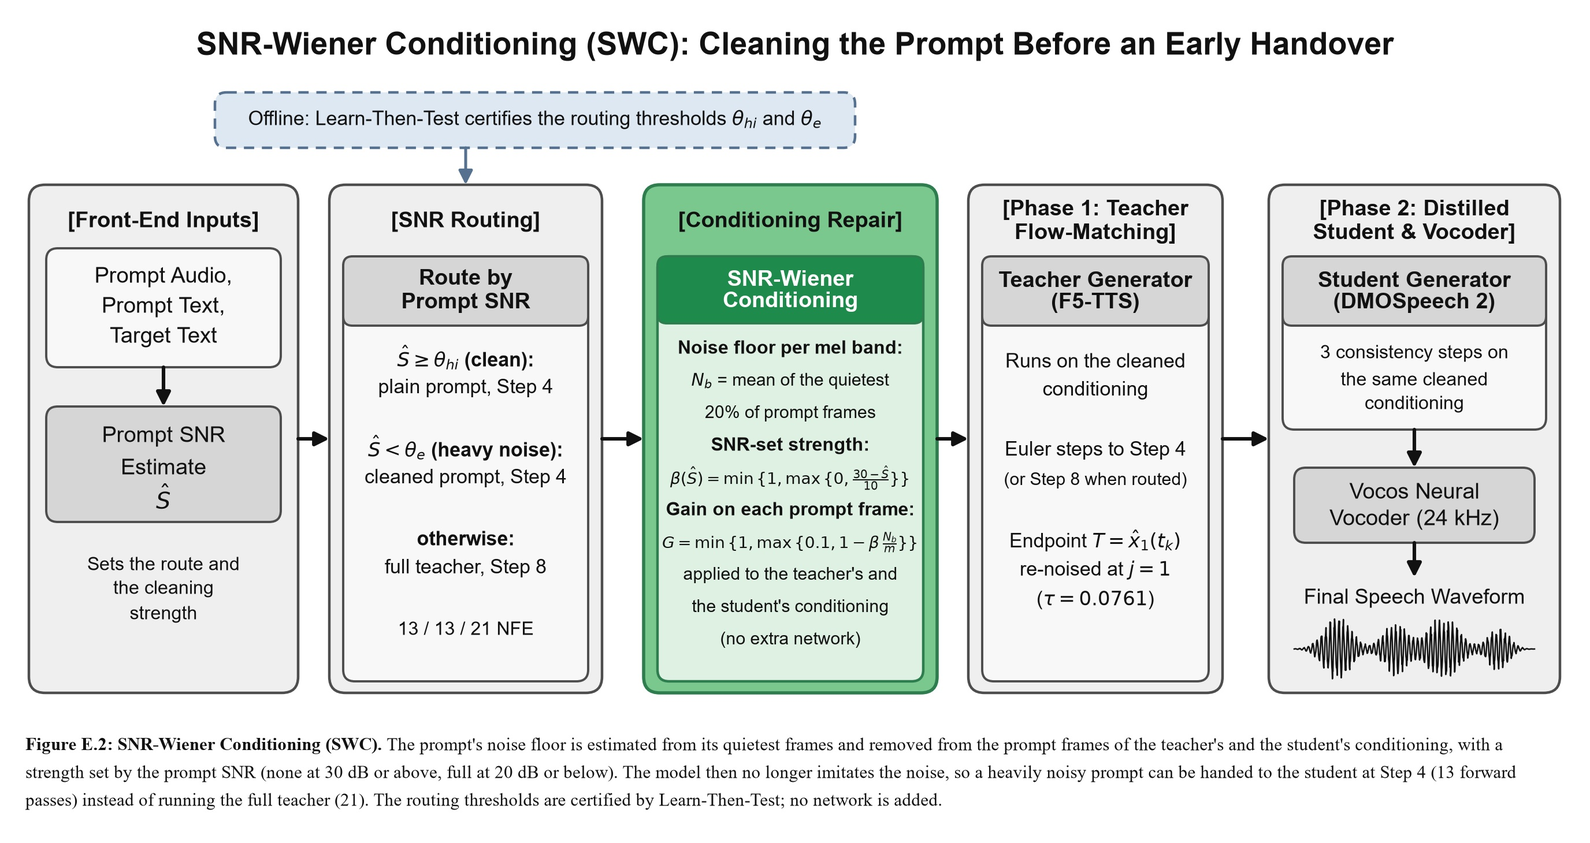
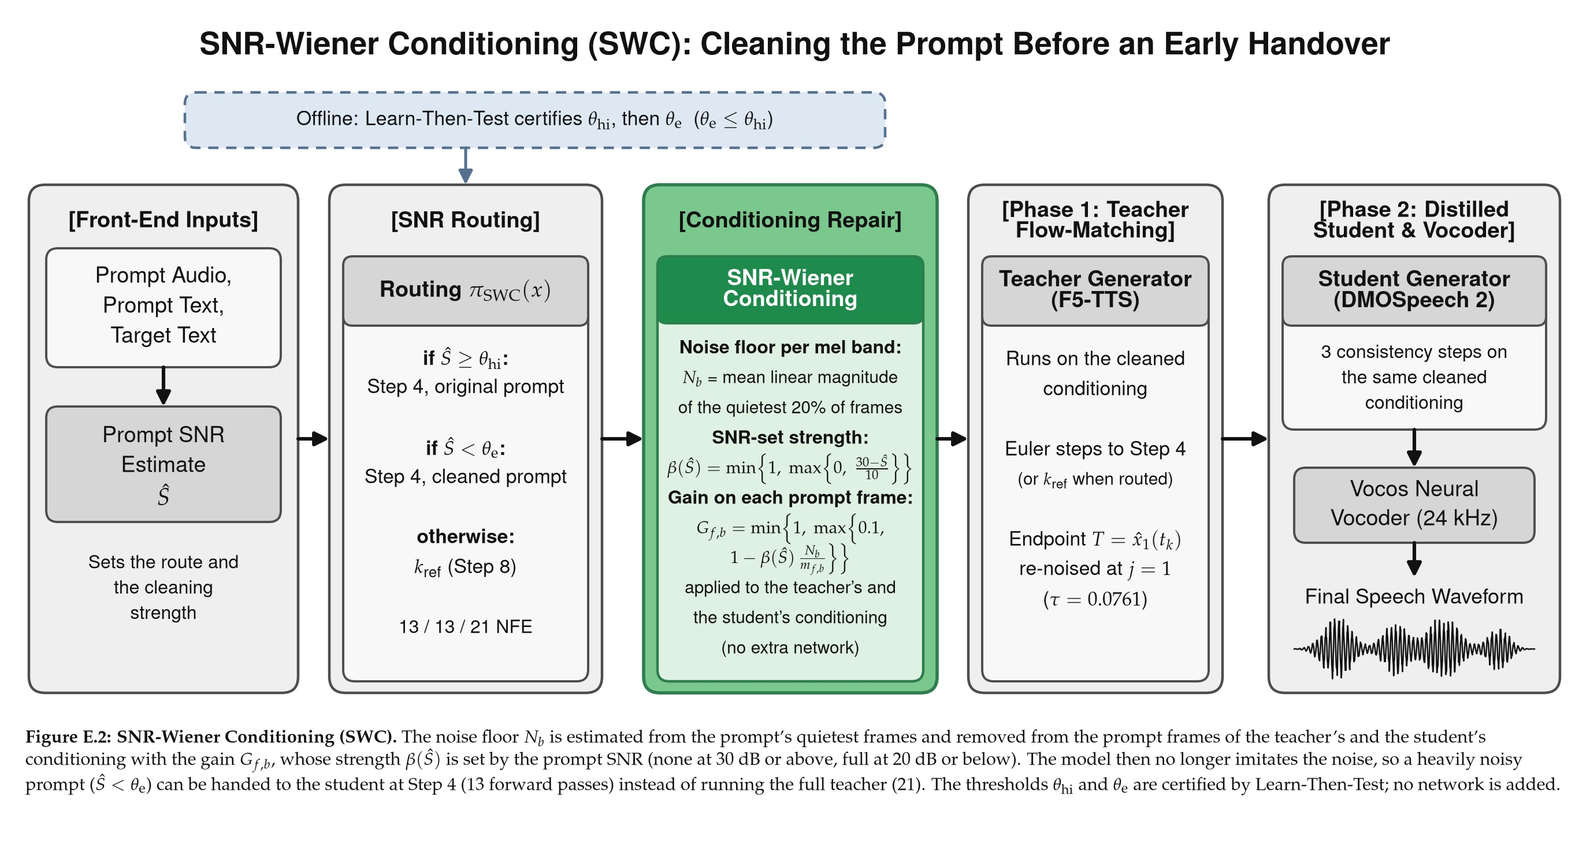
Appendix E and candidate figures: one notation
Appendix E: state the 20 dB gate used for TAS, add the SWC routing rule
that defines theta_e <= theta_hi, and give their certified values
(theta_hi 26 dB in every fold; theta_e 18-21 dB for heavy noise only).
Table E.1 labels the two SWC rows by these thresholds. No result changed.

Figures: typeset the text and formulas with LaTeX (Palatino math, as in
the manuscript) using the exact Appendix E notation, and regenerate both.

diff --git a/paper/figures/scripts/generate_candidate_figures.py b/paper/figures/scripts/generate_candidate_figures.py
@@ -1,12 +1,14 @@
 """
 Block diagrams for the two candidate solutions of Appendix E, drawn in the style of
-figures/handover_scheduling_architecture.jpg (five panels, highlighted scheduler, dashed
+figures/handover_scheduling_architecture.jpg (five panels, highlighted method panel, dashed
 offline-calibration box, caption under the diagram).
 
   tas_handover_gate.jpg       SNR + Trajectory Anomaly Score (TAS) handover gate
   swc_conditioning.jpg        SNR-Wiener Conditioning (SWC) with SNR routing
 
-No data needed; the formulas follow Appendix E. Outputs go to paper/figures/.
+All text is typeset by LaTeX (needs latex and dvipng on PATH): formulas use the manuscript's
+Palatino math (mathpazo) and the exact notation of Appendix E; labels use Helvetica, close to
+the reference figure's Arial. No data needed. Outputs go to paper/figures/.
 """
 
 import os
@@ -26,9 +28,14 @@ PANEL, PANEL_EDGE = "#efefef", "#4d4d4d"
 INNER, HEADER = "#f8f8f8", "#d6d6d6"
 GREEN_OUT, GREEN_EDGE, GREEN_IN, GREEN_HEAD = "#7bc88f", "#2e7d4f", "#dff1e2", "#1e8a4c"
 CALIB_FILL, CALIB_EDGE = "#dde8f3", "#56708f"
-SANS, SERIF = "Arial", "Times New Roman"
 
-plt.rcParams["mathtext.fontset"] = "dejavusans"
+plt.rcParams.update({
+    "text.usetex": True,
+    "font.family": "sans-serif",
+    "font.sans-serif": ["Helvetica"],
+    "font.serif": ["Palatino"],
+    "text.latex.preamble": r"\usepackage[T1]{fontenc}\usepackage{amsmath}\usepackage{bm}",
+})
 
 
 def pt(px):
@@ -51,9 +58,10 @@ def box(ax, x0, y0, x1, y1, fc, ec, lw=1.6, r=12, ls="-"):
                                 fc=fc, ec=ec, lw=lw, ls=ls, zorder=1))
 
 
-def text(ax, x, y, s, size=17, bold=False, color=INK, family=SANS, ha="center", va="center", style="normal"):
-    ax.text(x, y, s, fontsize=pt(size), fontweight="bold" if bold else "normal", color=color, family=family,
-            ha=ha, va=va, linespacing=1.15, style=style, zorder=3)
+def text(ax, x, y, s, size=17, bold=False, color=INK, ha="center", va="center"):
+    if bold:
+        s = "\n".join(r"\textbf{" + part + "}" for part in s.split("\n"))
+    ax.text(x, y, s, fontsize=pt(size), color=color, ha=ha, va=va, linespacing=1.15, zorder=3)
 
 
 def lines(ax, x, y0, items, step=24):
@@ -88,28 +96,10 @@ def waveform(ax, x0, x1, yc, amp):
     ax.plot(x0 + (x1 - x0) * t, yc - amp * sig / np.abs(sig).max(), color=INK, lw=0.9, zorder=3)
 
 
-def caption(ax, fig, x0, y0, width, bold, rest, size=15.5, step=24):
-    """Serif caption: bold lead-in, then regular text wrapped to the width (measured with the renderer)."""
-    r = fig.canvas.get_renderer()
-    scale = fig.dpi / 100.0
-
-    def wpx(s, b):
-        t = ax.text(0, 0, s, fontsize=pt(size), family=SERIF, fontweight="bold" if b else "normal")
-        w = t.get_window_extent(renderer=r).width / scale
-        t.remove()
-        return w
-
-    lead = wpx(bold + " ", True)
-    text(ax, x0, y0, bold, size=size, bold=True, family=SERIF, ha="left")
-    words, line, avail, y, first = rest.split(), "", width - lead, y0, True
-    for w in words:
-        cand = (line + " " + w).strip()
-        if wpx(cand, False) <= avail:
-            line = cand
-            continue
-        text(ax, x0 + (lead if first else 0), y, line, size=size, family=SERIF, ha="left")
-        line, avail, y, first = w, width, y + step, False
-    text(ax, x0 + (lead if first else 0), y, line, size=size, family=SERIF, ha="left")
+def caption(ax, x0, y0, width, lead, rest, size=15.5):
+    """Serif (Palatino) caption with a bold lead-in, wrapped by LaTeX itself."""
+    s = r"\parbox[t]{%.2fin}{\rmfamily\raggedright\textbf{%s} %s}" % (width / 100.0, lead, rest)
+    ax.text(x0, y0, s, fontsize=pt(size), color=INK, ha="left", va="top", zorder=3)
 
 
 def front_end(ax, snr_note):
@@ -118,13 +108,13 @@ def front_end(ax, snr_note):
     lines(ax, 141.5, 240, [("Prompt Audio,", 19, False), ("Prompt Text,", 19, False), ("Target Text", 19, False)], step=26)
     arrow(ax, 141.5, 318, 141.5, 352)
     box(ax, 40, 352, 243, 452, HEADER, PANEL_EDGE, lw=1.4, r=10)
-    lines(ax, 141.5, 378, [("Prompt SNR", 19, False), ("Estimate", 19, False), ("$\\hat{S}$", 20, False)], step=26)
+    lines(ax, 141.5, 378, [("Prompt SNR", 19, False), ("Estimate", 19, False), (r"$\hat S$", 20, False)], step=26)
     lines(ax, 141.5, 488, snr_note, step=22)
 
 
 def student(ax, x0, x1, note):
     xm = (x0 + x1) / 2
-    panel(ax, x0, x1, "[Phase 2: Distilled\nStudent & Vocoder]")
+    panel(ax, x0, x1, "[Phase 2: Distilled\nStudent \\& Vocoder]")
     box(ax, x0 + 12, 222, x1 - 12, 372, INNER, PANEL_EDGE, lw=1.4, r=10)
     header_box(ax, x0 + 12, x1 - 12, 222, 282, "Student Generator\n(DMOSpeech 2)")
     lines(ax, xm, 306, note, step=22)
@@ -145,90 +135,96 @@ def calibration(ax, x0, x1, label, target_x):
 def figure_tas():
     fig, ax = new_canvas()
     text(ax, W / 2, 40, "SNR + Trajectory Anomaly Score (TAS) Handover Gate", size=27, bold=True)
-    calibration(ax, 300, 1076, "Offline: clean-trajectory model $(\\mu,\\Sigma)$ + Learn-Then-Test $\\rightarrow$ certified threshold $\\hat{\\kappa}$", 684)
+    calibration(ax, 300, 1076, r"Offline: clean-trajectory model $(\bm{\mu},\bm{\Sigma})$ + Learn-Then-Test $\rightarrow$ certified threshold $\hat\kappa$", 684)
 
     front_end(ax, [("Sent to the", 16, False), ("scheduler for the", 16, False), ("SNR gate", 16, False)])
 
     panel(ax, 285, 521, "[Phase 1: Teacher\nFlow-Matching]")
     box(ax, 297, 222, 509, 590, INNER, PANEL_EDGE, lw=1.4, r=10)
     header_box(ax, 297, 509, 222, 282, "Teacher Generator\n(F5-TTS)")
-    lines(ax, 403, 310, [("Iterative Euler steps", 17, False), ("from $t=0$", 17, False), ("", 0, False),
-                         ("Endpoint estimates", 17, False), ("$\\hat{x}_1(t_i)$", 18, False), ("", 0, False),
-                         ("Drift profile", 17, True), ("$\\mathbf{z}=(\\log d_1,\\ldots,\\log d_6)$", 16, False),
+    lines(ax, 403, 310, [("Iterative Euler steps", 17, False), (r"from $t=0$", 17, False), ("", 0, False),
+                         ("Endpoint estimates", 17, False), (r"$\hat x_1(t_i)$", 18, False), ("", 0, False),
+                         ("Drift profile", 17, True), (r"$\mathbf{z}(x)=(\log d_1,\dots,\log d_6)$", 16, False),
                          ("(no extra forward pass)", 15, False)], step=26)
 
     panel(ax, 557, 811, "[Adaptive Handover\nScheduler]", green=True)
     box(ax, 569, 222, 799, 590, GREEN_IN, GREEN_EDGE, lw=1.6, r=10)
     header_box(ax, 569, 799, 222, 280, "SNR + TAS Gate", green=True)
-    lines(ax, 684, 302, [("Prompt-SNR Gate:", 17, True), ("$\\hat{S}\\geq\\theta$", 18, False),
-                         ("Trajectory Anomaly Score:", 16, True), ("$A=(\\mathbf{z}-\\mu)^{\\top}\\Sigma^{-1}(\\mathbf{z}-\\mu)$", 16, False),
-                         ("if the trajectory is stiller", 15, False), ("than on clean prompts, else 0", 15, False),
-                         ("Online Decision Rule:", 17, True), ("If $\\hat{S}\\geq\\theta$ and $A\\leq\\hat{\\kappa}$:", 16, False),
-                         ("hand over at Step 4.", 16, False), ("Otherwise: Step 8.", 16, False)], step=27)
+    lines(ax, 684, 302, [("Prompt-SNR Gate:", 17, True), (r"$\hat S\ge\theta$", 18, False),
+                         ("Trajectory Anomaly Score:", 16, True),
+                         (r"$A(x)=(\mathbf{z}-\bm{\mu})^{\top}\bm{\Sigma}^{-1}(\mathbf{z}-\bm{\mu})$", 16, False),
+                         (r"if the mean component of", 15, False), (r"$\mathbf{z}-\bm{\mu}$ is negative, else $0$", 15, False),
+                         ("Online Decision Rule:", 17, True),
+                         (r"$\pi_{\mathrm{TAS}}(x)=4$ if $\hat S\ge\theta$", 16, False),
+                         (r"and $A(x)\le\hat\kappa$;", 16, False),
+                         (r"otherwise $k_{\text{ref}}$ (Step 8)", 16, False)], step=27)
 
     panel(ax, 838, 1058, "[Handover Interface]")
     box(ax, 850, 222, 1046, 590, INNER, PANEL_EDGE, lw=1.4, r=10)
     header_box(ax, 850, 1046, 222, 282, "Handover\nInterface")
-    lines(ax, 948, 312, [("Teacher endpoint", 17, False), ("$T=\\hat{x}_1(t_k)$", 18, False), ("$k\\in\\{4,8\\}$", 17, False), ("", 0, False),
-                         ("Re-noise at fixed", 17, False), ("student restart level", 17, False), ("$j=1$  ($\\tau=0.0761$)", 17, False), ("", 0, False),
+    lines(ax, 948, 312, [("Teacher endpoint", 17, False), (r"$T=\hat x_1(t_k)$", 18, False), (r"$k\in\{4,8\}$", 17, False), ("", 0, False),
+                         ("Re-noise at fixed", 17, False), ("student restart level", 17, False), (r"$j=1$ \ ($\tau=0.0761$)", 17, False), ("", 0, False),
                          ("Step 4: 13 NFE", 16, True), ("Step 8: 21 NFE", 16, True)], step=26)
 
-    student(ax, 1098, 1350, [("Executes exactly 3", 16, False), ("consistency steps", 16, False), ("to $t=1.00$", 16, False)])
+    student(ax, 1098, 1350, [("Executes exactly 3", 16, False), ("consistency steps", 16, False), (r"to $t=1.00$", 16, False)])
 
     for x0, x1 in ((258, 285), (521, 557), (811, 838), (1058, 1098)):
         arrow(ax, x0, 380, x1, 380)
 
-    caption(ax, fig, 22, 646, 1330, "Figure E.1: SNR + Trajectory Anomaly Score (TAS).",
-            "The teacher's drift profile, which the teacher pass already computes, is compared with the profiles of clean "
-            "prompts. A trajectory that settles too early (premature stabilization, the sign of a noisy prompt) is not handed "
-            "over, even if its SNR passes the gate. Inputs that pass both checks are handed to the student at Step 4 (13 forward "
-            "passes); all others continue to Step 8 (21). The clean-trajectory model needs no failure labels; the threshold "
-            "is certified by Learn-Then-Test.")
+    caption(ax, 22, 632, 1330, "Figure E.1: SNR + Trajectory Anomaly Score (TAS).",
+            r"The teacher's drift profile $\mathbf{z}(x)$, which the teacher pass already computes, is compared with the profiles of clean "
+            r"prompts. A trajectory that settles too early (premature stabilization, the sign of a noisy prompt) is not handed "
+            r"over, even if its SNR passes the gate. Inputs that pass both checks are handed to the student at Step 4 (13 forward "
+            r"passes); all others continue to the reference step $k_{\text{ref}}$, Step 8 (21). The clean-trajectory model "
+            r"$(\bm{\mu},\bm{\Sigma})$ needs no failure labels; the threshold $\hat\kappa$ is certified by Learn-Then-Test.")
     return fig
 
 
 def figure_swc():
     fig, ax = new_canvas()
     text(ax, W / 2, 40, "SNR-Wiener Conditioning (SWC): Cleaning the Prompt Before an Early Handover", size=27, bold=True)
-    calibration(ax, 186, 740, "Offline: Learn-Then-Test certifies the routing thresholds $\\theta_{hi}$ and $\\theta_{e}$", 403)
+    calibration(ax, 160, 766, r"Offline: Learn-Then-Test certifies $\theta_{\mathrm{hi}}$, then $\theta_{\mathrm{e}}$ \ ($\theta_{\mathrm{e}}\le\theta_{\mathrm{hi}}$)", 403)
 
     front_end(ax, [("Sets the route and", 16, False), ("the cleaning", 16, False), ("strength", 16, False)])
 
     panel(ax, 285, 521, "[SNR Routing]")
     box(ax, 297, 222, 509, 590, INNER, PANEL_EDGE, lw=1.4, r=10)
-    header_box(ax, 297, 509, 222, 282, "Route by\nPrompt SNR")
-    lines(ax, 403, 310, [("$\\hat{S}\\geq\\theta_{hi}$ (clean):", 17, True), ("plain prompt, Step 4", 17, False), ("", 0, False),
-                         ("$\\hat{S}<\\theta_{e}$ (heavy noise):", 17, True), ("cleaned prompt, Step 4", 17, False), ("", 0, False),
-                         ("otherwise:", 17, True), ("full teacher, Step 8", 17, False), ("", 0, False),
+    header_box(ax, 297, 509, 222, 282, r"Routing $\pi_{\mathrm{SWC}}(x)$")
+    lines(ax, 403, 310, [(r"if $\hat S\ge\theta_{\mathrm{hi}}$:", 17, True), ("Step 4, original prompt", 17, False), ("", 0, False),
+                         (r"if $\hat S<\theta_{\mathrm{e}}$:", 17, True), ("Step 4, cleaned prompt", 17, False), ("", 0, False),
+                         ("otherwise:", 17, True), (r"$k_{\text{ref}}$ (Step 8)", 17, False), ("", 0, False),
                          ("13 / 13 / 21 NFE", 16, False)], step=26)
 
     panel(ax, 557, 811, "[Conditioning Repair]", green=True)
     box(ax, 569, 222, 799, 590, GREEN_IN, GREEN_EDGE, lw=1.6, r=10)
     header_box(ax, 569, 799, 222, 280, "SNR-Wiener\nConditioning", green=True)
-    lines(ax, 684, 302, [("Noise floor per mel band:", 16, True), ("$N_b$ = mean of the quietest", 15, False), ("20% of prompt frames", 15, False),
-                         ("SNR-set strength:", 16, True), ("$\\beta(\\hat{S})=\\min\\{1,\\max\\{0,\\frac{30-\\hat{S}}{10}\\}\\}$", 14, False),
-                         ("Gain on each prompt frame:", 16, True), ("$G=\\min\\{1,\\max\\{0.1,1-\\beta\\,\\frac{N_b}{m}\\}\\}$", 14, False),
+    lines(ax, 684, 302, [("Noise floor per mel band:", 16, True), (r"$N_b$ = mean linear magnitude", 15, False), (r"of the quietest 20\% of frames", 15, False),
+                         ("SNR-set strength:", 16, True),
+                         (r"$\beta(\hat S)=\min\Bigl\{1,\ \max\Bigl\{0,\ \frac{30-\hat S}{10}\Bigr\}\Bigr\}$", 15, False),
+                         ("Gain on each prompt frame:", 16, True),
+                         (r"$G_{f,b}=\min\Bigl\{1,\ \max\Bigl\{0.1,$", 15, False),
+                         (r"$1-\beta(\hat S)\,\frac{N_b}{m_{f,b}}\Bigr\}\Bigr\}$", 15, False),
                          ("applied to the teacher's and", 15, False), ("the student's conditioning", 15, False),
-                         ("(no extra network)", 15, False)], step=28)
+                         ("(no extra network)", 15, False)], step=26)
 
     panel(ax, 838, 1058, "[Phase 1: Teacher\nFlow-Matching]")
     box(ax, 850, 222, 1046, 590, INNER, PANEL_EDGE, lw=1.4, r=10)
     header_box(ax, 850, 1046, 222, 282, "Teacher Generator\n(F5-TTS)")
     lines(ax, 948, 312, [("Runs on the cleaned", 17, False), ("conditioning", 17, False), ("", 0, False),
-                         ("Euler steps to Step 4", 17, False), ("(or Step 8 when routed)", 15, False), ("", 0, False),
-                         ("Endpoint $T=\\hat{x}_1(t_k)$", 17, False), ("re-noised at $j=1$", 17, False), ("($\\tau=0.0761$)", 17, False)], step=26)
+                         ("Euler steps to Step 4", 17, False), (r"(or $k_{\text{ref}}$ when routed)", 15, False), ("", 0, False),
+                         (r"Endpoint $T=\hat x_1(t_k)$", 17, False), (r"re-noised at $j=1$", 17, False), (r"($\tau=0.0761$)", 17, False)], step=26)
 
     student(ax, 1098, 1350, [("3 consistency steps on", 16, False), ("the same cleaned", 16, False), ("conditioning", 16, False)])
 
     for x0, x1 in ((258, 285), (521, 557), (811, 838), (1058, 1098)):
         arrow(ax, x0, 380, x1, 380)
 
-    caption(ax, fig, 22, 646, 1330, "Figure E.2: SNR-Wiener Conditioning (SWC).",
-            "The prompt's noise floor is estimated from its quietest frames and removed from the prompt frames of the "
-            "teacher's and the student's conditioning, with a strength set by the prompt SNR (none at 30 dB or above, full at "
-            "20 dB or below). The model then no longer imitates the noise, so a heavily noisy prompt can be handed to the "
-            "student at Step 4 (13 forward passes) instead of running the full teacher (21). The routing thresholds are "
-            "certified by Learn-Then-Test; no network is added.")
+    caption(ax, 22, 632, 1330, "Figure E.2: SNR-Wiener Conditioning (SWC).",
+            r"The noise floor $N_b$ is estimated from the prompt's quietest frames and removed from the prompt frames of the "
+            r"teacher's and the student's conditioning with the gain $G_{f,b}$, whose strength $\beta(\hat S)$ is set by the prompt "
+            r"SNR (none at 30~dB or above, full at 20~dB or below). The model then no longer imitates the noise, so a heavily noisy "
+            r"prompt ($\hat S<\theta_{\mathrm{e}}$) can be handed to the student at Step 4 (13 forward passes) instead of running the "
+            r"full teacher (21). The thresholds $\theta_{\mathrm{hi}}$ and $\theta_{\mathrm{e}}$ are certified by Learn-Then-Test; no network is added.")
     return fig
 
 

diff --git a/paper/chapters/appendices.tex b/paper/chapters/appendices.tex
@@ -360,7 +360,7 @@ The handover rule keeps the SNR gate and adds the score:
 \[
 \pi_{\mathrm{TAS}}(x)=\begin{cases}4 & \text{if } \hat S\ge\theta \text{ and } A(x)\le\hat\kappa,\\[2pt] k_{\text{ref}} & \text{otherwise,}\end{cases}
 \]
-where $\hat\kappa$ is the most permissive threshold certified by Algorithm~\ref{alg:ltt}, testing thresholds in increasing order.
+where $\theta$ is the SNR gate (20~dB in these studies, as in SNR-only) and $\hat\kappa$ is the most permissive threshold certified by Algorithm~\ref{alg:ltt}, testing thresholds in increasing order.
 
 \emph{Relation to prior work.} Mahalanobis distances are standard anomaly scores, and DiffPath uses the rate of change and curvature of diffusion paths to detect out-of-distribution images \parencite{heng2024diffpath}. TAS differs in what it detects (corrupted conditioning), in treating a trajectory that settles too early as a reason not to stop, the opposite of early-exit rules that stop once the output stops changing \parencite{schuster2022calm}, and in gating a calibrated teacher-to-student handover. To our knowledge this use has not been reported.
 
@@ -376,12 +376,18 @@ G_{f,b}=\min\Bigl\{1,\ \max\Bigl\{0.1,\ 1-\beta(\hat S)\,\frac{N_b}{m_{f,b}}\Big
 \end{gather*}
 so that prompts estimated at 30~dB or above are left unchanged and prompts at 20~dB or below are cleaned at full strength. The teacher then runs to step~4 and the student completes as usual, for 13 forward passes.
 
+\emph{Routing.} The prompt SNR also decides which inputs are cleaned. With two thresholds $\theta_{\mathrm{e}}\le\theta_{\mathrm{hi}}$, certified in turn by Algorithm~\ref{alg:ltt},
+\[
+\pi_{\mathrm{SWC}}(x)=\begin{cases}4 \text{ with the original prompt} & \text{if } \hat S\ge\theta_{\mathrm{hi}},\\[2pt] 4 \text{ with the cleaned prompt} & \text{if } \hat S<\theta_{\mathrm{e}},\\[2pt] k_{\text{ref}} & \text{otherwise.}\end{cases}
+\]
+Setting $\theta_{\mathrm{e}}=\theta_{\mathrm{hi}}$ cleans every input below the gate; a lower $\theta_{\mathrm{e}}$ cleans heavy noise only and sends moderately noisy prompts to the reference.
+
 \emph{Relation to prior work.} The gain is classical spectral subtraction with a minimum-energy noise estimate \parencite{boll1979spectral}, so SWC is not a new formula. What is new, to our knowledge, is applying it to the conditioning of a teacher-guided sampler, with the strength set by the prompt SNR, as a substitute for teacher computation that makes an early handover safe.
 
 \subsection{Results}
 \label{app:cand-results}
 
-Table~\ref{tab:candidates} compares the candidates with the SNR-only policy on the same 360 instances. On the 300 noisy instances, SWC's step-4 output was better than the reference output on average: speaker similarity rose by 0.126 (higher in 90\% of the instances; Wilcoxon signed-rank $p<10^{-40}$) and WER fell by 4.8 percentage points. With every input handed over at step~4, SWC failed on 21 of the 300 noisy instances, against 126 for the plain step-4 handover. Applied to every input estimated below the calibrated SNR gate, it had fewer failures and fewer forward passes than SNR-only; applied to heavy noise only, it kept the failure rate within the 5\% tolerance.
+Table~\ref{tab:candidates} compares the candidates with the SNR-only policy on the same 360 instances. On the 300 noisy instances, SWC's step-4 output was better than the reference output on average: speaker similarity rose by 0.126 (higher in 90\% of the instances; Wilcoxon signed-rank $p<10^{-40}$) and WER fell by 4.8 percentage points. With every input handed over at step~4, SWC failed on 21 of the 300 noisy instances, against 126 for the plain step-4 handover. With $\theta_{\mathrm{e}}=\theta_{\mathrm{hi}}$ (26~dB in every fold), every input below the gate was cleaned, and the policy had fewer failures and fewer forward passes than SNR-only; with heavy noise only ($\theta_{\mathrm{e}}$ between 18 and 21~dB), it kept the failure rate within the 5\% tolerance.
 
 TAS also kept the failure rate within the tolerance that SNR-only exceeds. It did not improve on a fixed SNR gate whose threshold was itself calibrated on these noise levels (7 failures at 18.71 forward passes; the difference from TAS is not significant, exact McNemar $p=0.23$), but it needs only clean prompts to model normal trajectories. The stopping rule of Definition~\ref{def:policy} certified no threshold on these instances and fell back to the reference for every input.
 
@@ -397,8 +403,8 @@ Other variants did not improve on the plain handover: guidance steered away from
 \midrule
 SNR-only ($\hat S\ge20$~dB) & 86 & 23.9\% & 14.40 & -- \\
 SNR + TAS & 12 & 3.3\% & 18.20 & 74 / 0 \\
-SNR + SWC below the calibrated gate & 20 & 5.6\% & 13.00 & 75 / 9 \\
-SNR + SWC for heavy noise only & 11 & 3.1\% & 16.98 & 79 / 4 \\
+SNR + SWC, $\theta_{\mathrm{e}}=\theta_{\mathrm{hi}}$ & 20 & 5.6\% & 13.00 & 75 / 9 \\
+SNR + SWC, heavy noise only ($\theta_{\mathrm{e}}<\theta_{\mathrm{hi}}$) & 11 & 3.1\% & 16.98 & 79 / 4 \\
 Reference for every input & 0 & 0.0\% & 21.00 & -- \\
 \bottomrule
 \end{tabularx}

diff --git a/docs/progress/log/2026-10-26-appendix-e-candidates.md b/docs/progress/log/2026-10-26-appendix-e-candidates.md
@@ -20,3 +20,16 @@ Branch `rhenelAudit`. Requested by a team member: add only a new appendix sectio
 ## Follow-up: candidate figures (same day)
 
 - `paper/figures/tas_handover_gate.jpg` (SNR + TAS handover gate) and `paper/figures/swc_conditioning.jpg` (SNR-Wiener Conditioning with SNR routing), drawn in the style of `handover_scheduling_architecture.jpg` (five panels, highlighted method panel, dashed offline-calibration box, caption) by `paper/figures/scripts/generate_candidate_figures.py`; formulas follow Appendix E. Generated only; not yet included in the manuscript.
+
+## Follow-up: figure and appendix formulas made identical (same day)
+
+The first figures used shortened notation, a different font, and two SWC thresholds (θ_hi, θ_e) that Appendix E did not define.
+
+- `paper/chapters/appendices.tex`: E.1 states that θ in π_TAS was the 20 dB gate of SNR-only in these studies (the EXP-015 TAS policy). E.2 adds the SWC routing rule π_SWC, which defines θ_e ≤ θ_hi. E.3 gives the certified values from the EXP-015 report: θ_hi = 26 dB in all five folds; θ_e = θ_hi for `swc_noisy`; θ_e = 21, 18, 20, 20 and 21 dB for `swc_heavy`. The two SWC rows of Table E.1 are now labelled by these thresholds. No result changed.
+- `paper/figures/scripts/generate_candidate_figures.py`: text and formulas are now typeset by LaTeX (matplotlib `text.usetex`; Palatino math to match mathpazo; Helvetica labels) with the exact Appendix E notation. The G_{f,b} formula is split over two lines to fit its panel. Both JPGs were regenerated. Regenerating them now requires a TeX installation with dvipng.
+
+### Checks run
+
+- latexmk -Werror in paper/: exit 0; no undefined or multiply defined references; no overfull boxes. There are 9 underfull warnings, none of them in Appendix E. Appendix E is on printed pages 64–66. Pages 65–66 and both figures were inspected as rendered images.
+- python scripts/check_workspace.py: PASSED.
+- python -m unittest discover -s code/tests: 55 tests, OK.

diff --git a/docs/progress/STATUS.md b/docs/progress/STATUS.md
@@ -22,7 +22,7 @@ EXP-014 ran on the T4 (2026-10-25, results committed with hashes): no operator s
 
 EXP-015 ran on a Colab A100 (2026-10-26, results committed with hashes). Two candidates to propose: the Trajectory Anomaly Score (SNR + TAS: 12/360 failures vs 86/360 for SNR-only, within the 5% limit, 18.20 NFE) and SNR-Wiener Conditioning (SNR + SWC: 20/360 at 13.00 NFE, or 11/360 at 16.98 NFE routed; noisy-prompt similarity +0.126 over the full teacher). New-method outputs carry an A100-vs-T4 caveat; confirmation is EVAL-008. Development evidence only; any manuscript use is a team and adviser decision. See the [candidates report](../../research/reports/Ref_reports/PROPOSED_CANDIDATES_TAS_SWC_REPORT.md) (Part 7 of the compiled reports) and the [EXP-015 results log](log/2026-10-26-exp015-results.md).
 
-Appendix E (Candidate Solutions) now presents TAS and SWC in the manuscript as development evidence; no other section changed. See the [Appendix E log](log/2026-10-26-appendix-e-candidates.md).
+Appendix E (Candidate Solutions) now presents TAS and SWC in the manuscript as development evidence, including the SWC routing rule and its certified thresholds; no other section changed. Two figures for the candidates (`paper/figures/tas_handover_gate.jpg`, `paper/figures/swc_conditioning.jpg`) use the same notation and are not yet included in the manuscript. See the [Appendix E log](log/2026-10-26-appendix-e-candidates.md).
 
 The October 25 audit recomputed the T4 grid: with the manuscript's λ grid (0.20–1.20), Learn-Then-Test on the calibration split certifies every threshold (λ̂ = 1.20, not the reports' CPU-label 0.50), and the policy then equals SNR-only on the test split (4/200 speaker failures, 17.04 NFE). The stabilization score shows no discrimination on clean development prompts (AUC 0.474, three failures). Each report now carries a dated audit note; its original text is unchanged.
 
